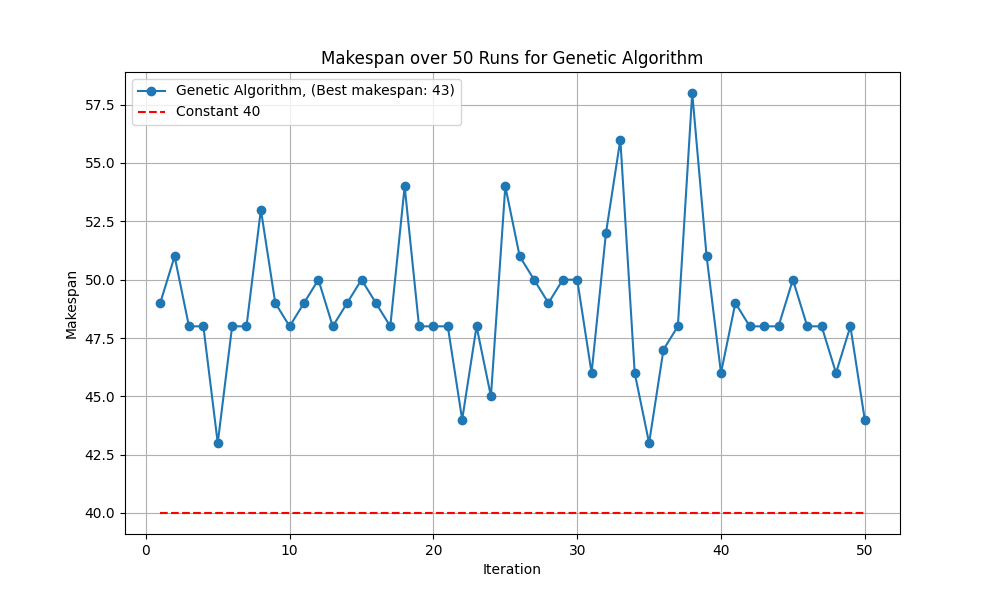
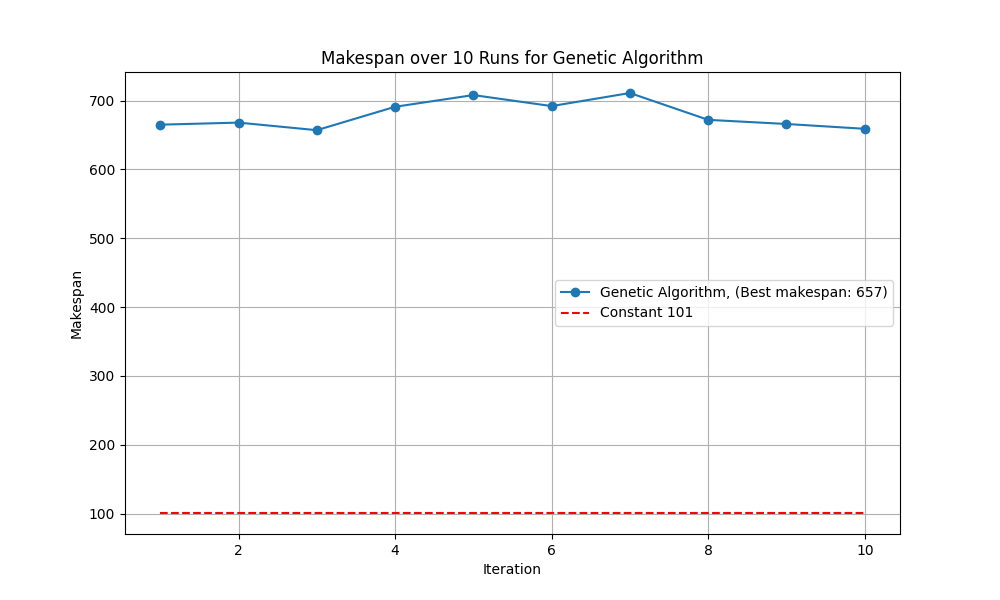
Added some improvements and better configs

diff --git a/main2.py b/main2.py
@@ -305,32 +305,38 @@ class Scheduler:
                             initial_temperature: float = config.simulated_annealing.initial_temperature, 
                             cooling_rate: float = config.simulated_annealing.cooling_rate, 
                             min_temperature: float = config.simulated_annealing.min_temperature, 
-                            max_iterations: int = config.simulated_annealing.max_iterations
+                            max_iterations: int = config.simulated_annealing.max_iterations,
+                            restarts: int = config.simulated_annealing.restarts
                             ) -> Tuple[Tuple[List[int], List[List[int]]], int]:
                             
         # Optimizes the schedule using Simulated Annealing
-        current_solution: Tuple[List[int], List[List[int]]] = self.generate_initial_solution()
-        current_makespan: int = self.compute_makespan(current_solution[0], current_solution[1])             # Evaluate it
-        best_solution: Tuple[List[int], List[List[int]]] = current_solution                                 # Track the best solution found
-        best_makespan: int = current_makespan    # Track its makespan
-        temperature: int = initial_temperature   # Start with a high temperature
-        iteration: int = 0                       # Count iterations
 
-        # We continue until temperature is low enough or max iterations reached
-        while temperature > min_temperature and iteration < max_iterations:
-            neighbor: Tuple[List[int], List[List[int]]] = self.generate_neighbor(current_solution)     # Create a new solution
-            neighbor_makespan: int = self.compute_makespan(*neighbor)    # Evaluate it
-            delta_E: int = neighbor_makespan - current_makespan          # Change in makespan
-            # Accept if better (negative delta) or with probability if worse
-            if delta_E < 0 or random.random() < math.exp(-delta_E / (temperature * current_makespan)):  
-                current_solution = neighbor
-                current_makespan = neighbor_makespan
-                # Update best solution if this one is better
-                if current_makespan < best_makespan:
-                    best_solution = current_solution
-                    best_makespan = current_makespan
-            temperature *= cooling_rate  # Cool down the temperature    
-            iteration += 1               # Increment iteration counter
+        best_solution: Tuple[List[int], List[List[int]]] = self.generate_initial_solution()     # Track the best solution found
+        best_makespan: int = self.compute_makespan(*best_solution)                              # Track its makespan
+
+        for i in range(restarts):
+            current_solution: Tuple[List[int], List[List[int]]] = self.generate_initial_solution()
+            current_makespan: int = self.compute_makespan(current_solution[0], current_solution[1])             # Evaluate it
+            temperature: int = initial_temperature   # Start with a high temperature
+            iteration: int = 0                       # Count iterations
+
+            # We continue until temperature is low enough or max iterations reached
+            while temperature > min_temperature and iteration < max_iterations:
+                neighbor: Tuple[List[int], List[List[int]]] = self.generate_neighbor(current_solution)     # Create a new solution
+                neighbor_makespan: int = self.compute_makespan(*neighbor)    # Evaluate it
+                delta_E: int = neighbor_makespan - current_makespan          # Change in makespan
+                # Accept if better (negative delta) or with probability if worse
+                if delta_E < 0 or random.random() < math.exp(-delta_E / (temperature * current_makespan)):  
+                    current_solution = neighbor
+                    current_makespan = neighbor_makespan
+                    # Update best solution if this one is better
+                    if current_makespan < best_makespan:
+                        best_solution = current_solution
+                        best_makespan = current_makespan
+                temperature *= cooling_rate  # Cool down the temperature    
+                iteration += 1               # Increment iteration counter
+        
+
         self.compute_makespan(*best_solution)  # Apply the best solution
         return best_solution, best_makespan    # Return the optimized solution and its makespan
 
@@ -608,10 +614,15 @@ class Scheduler:
                 else:
                     improved -= 1
 
+            pertubed_solution: Tuple[List[int], List[List[int]]] = copy.deepcopy(current_solution)
             # Perturbation step
             for i in range(perturbation_strength):
-                current_solution = self.generate_neighbor(current_solution)
-            current_makespan = self.compute_makespan(*current_solution)
+                pertubed_solution = self.generate_neighbor(pertubed_solution)
+            pertubed_solution_makespan: int = self.compute_makespan(*pertubed_solution)
+            # Check acceptance of perturbation
+            if pertubed_solution_makespan < current_makespan:
+                current_solution = copy.deepcopy(pertubed_solution)
+                current_makespan = pertubed_solution_makespan
 
         # Apply the best solution and return
         self.compute_makespan(*best_solution)
@@ -926,7 +937,11 @@ heuristic_names = {
 # Test all heuristics
 scheduler = Scheduler(allJobs, machines)
 for heuristic in ['SA', 'HC', 'TS', 'GA', 'ILS']:
-    run_gannt_chart(heuristic, scheduler, heuristic_names)
+    save_chart_results(heuristic, 10, 101, scheduler, heuristic_names)
 
 
 #scheduler.display_work_remaining_arrays()
+
+####### To do #######
+# Maybe keep more best solutions in GA, but may require performance
+# Maybe make the generate initial solution first from MWR and the shuffle a bit

diff --git a/configModels.py b/configModels.py
@@ -4,6 +4,7 @@ class SimulatedAnnealingConfig:
     cooling_rate: float
     min_temperature: float
     max_iterations: int
+    restarts: int
 
 class HillClimbingConfig:
     max_iterations: int
